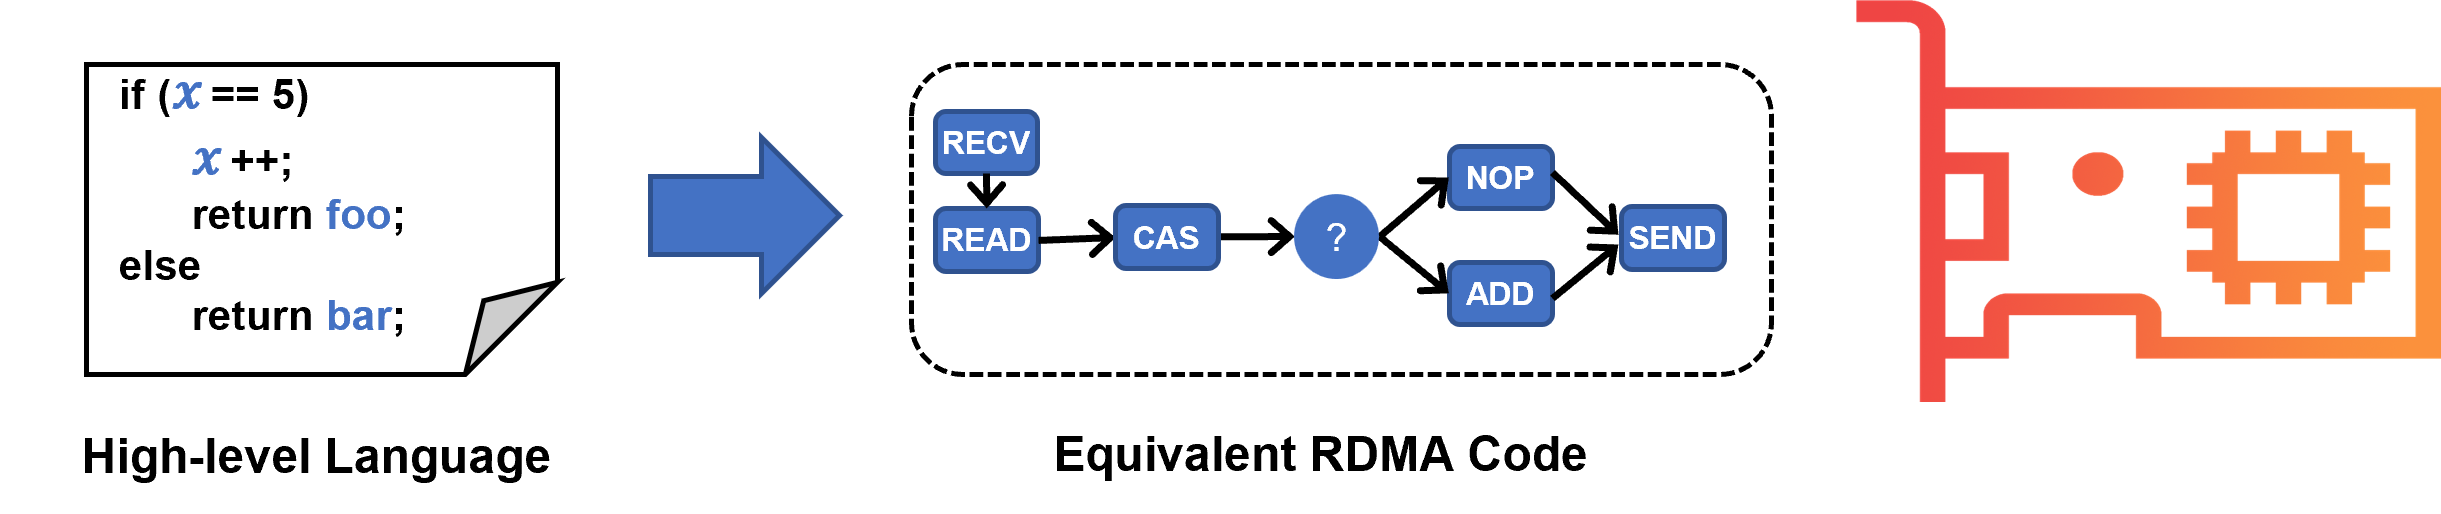
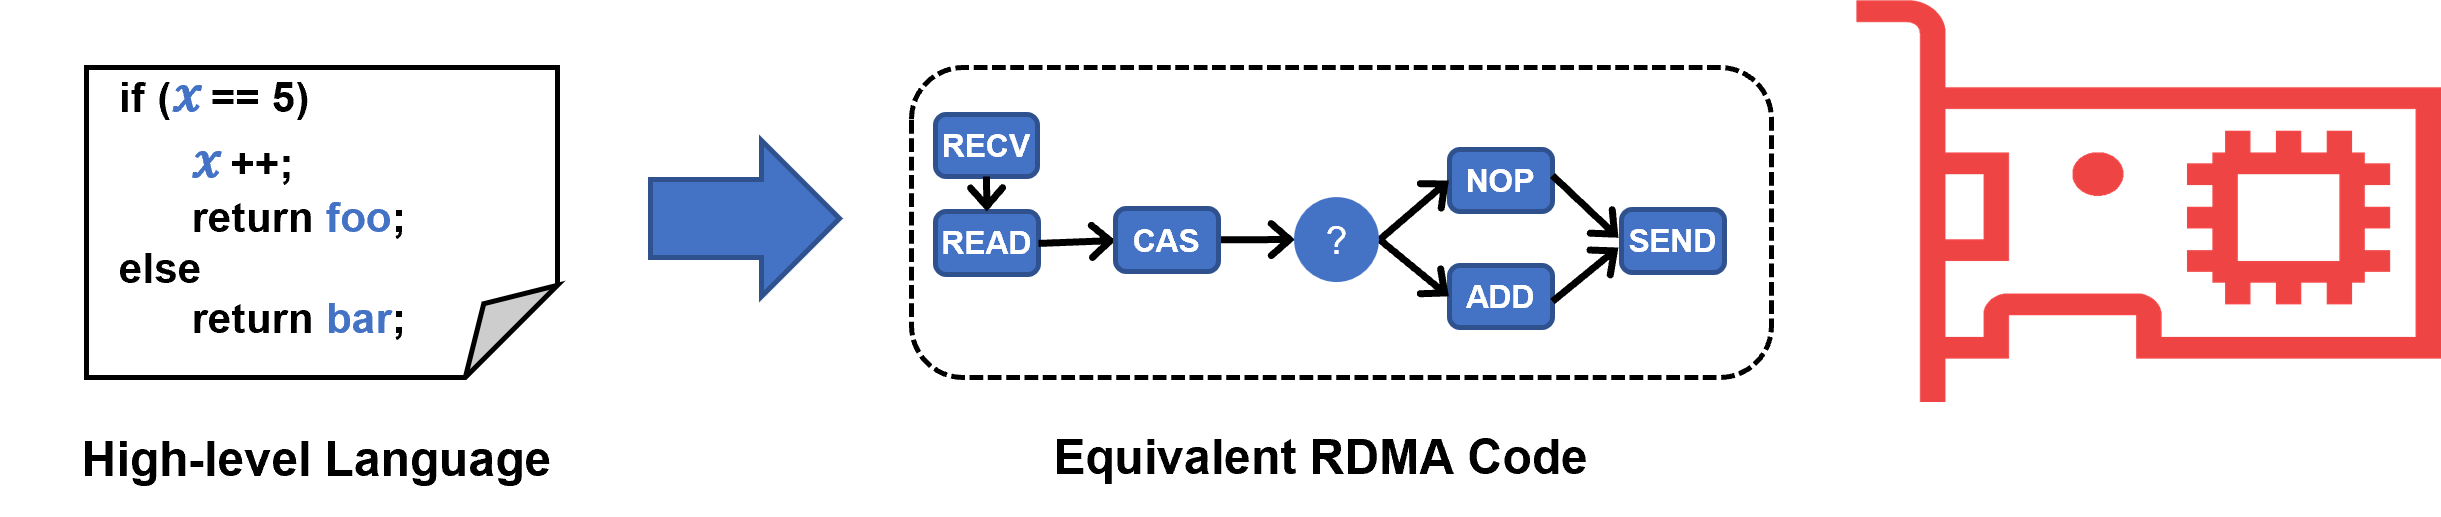
edits

diff --git a/src/partials/HeroHome.jsx b/src/partials/HeroHome.jsx
@@ -22,7 +22,7 @@ function HeroHome() {
 
           {/* Section header */}
           <div className="text-center pb-12 md:pb-16">
-            <h1 className="text-5xl md:text-6xl font-extrabold leading-tighter tracking-tighter mb-4" data-aos="zoom-y-out">Transform RDMA NICs into <span className="bg-clip-text text-transparent bg-gradient-to-r from-red-500 to-orange-400">Processors</span></h1>
+            <h1 className="text-5xl md:text-6xl font-extrabold leading-tighter tracking-tighter mb-4" data-aos="zoom-y-out">Transform RDMA NICs into <span className="bg-clip-text text-transparent bg-gradient-to-r from-red-500 to-red-500">Processors</span></h1>
             <div className="max-w-3xl mx-auto">
               <p className="text-xl text-gray-600 mb-8" data-aos="zoom-y-out" data-aos-delay="150">Unlock the latent Turing power of RDMA.</p>
               <div className="max-w-xs mx-auto sm:max-w-none sm:flex sm:justify-center" data-aos="zoom-y-out" data-aos-delay="300">
